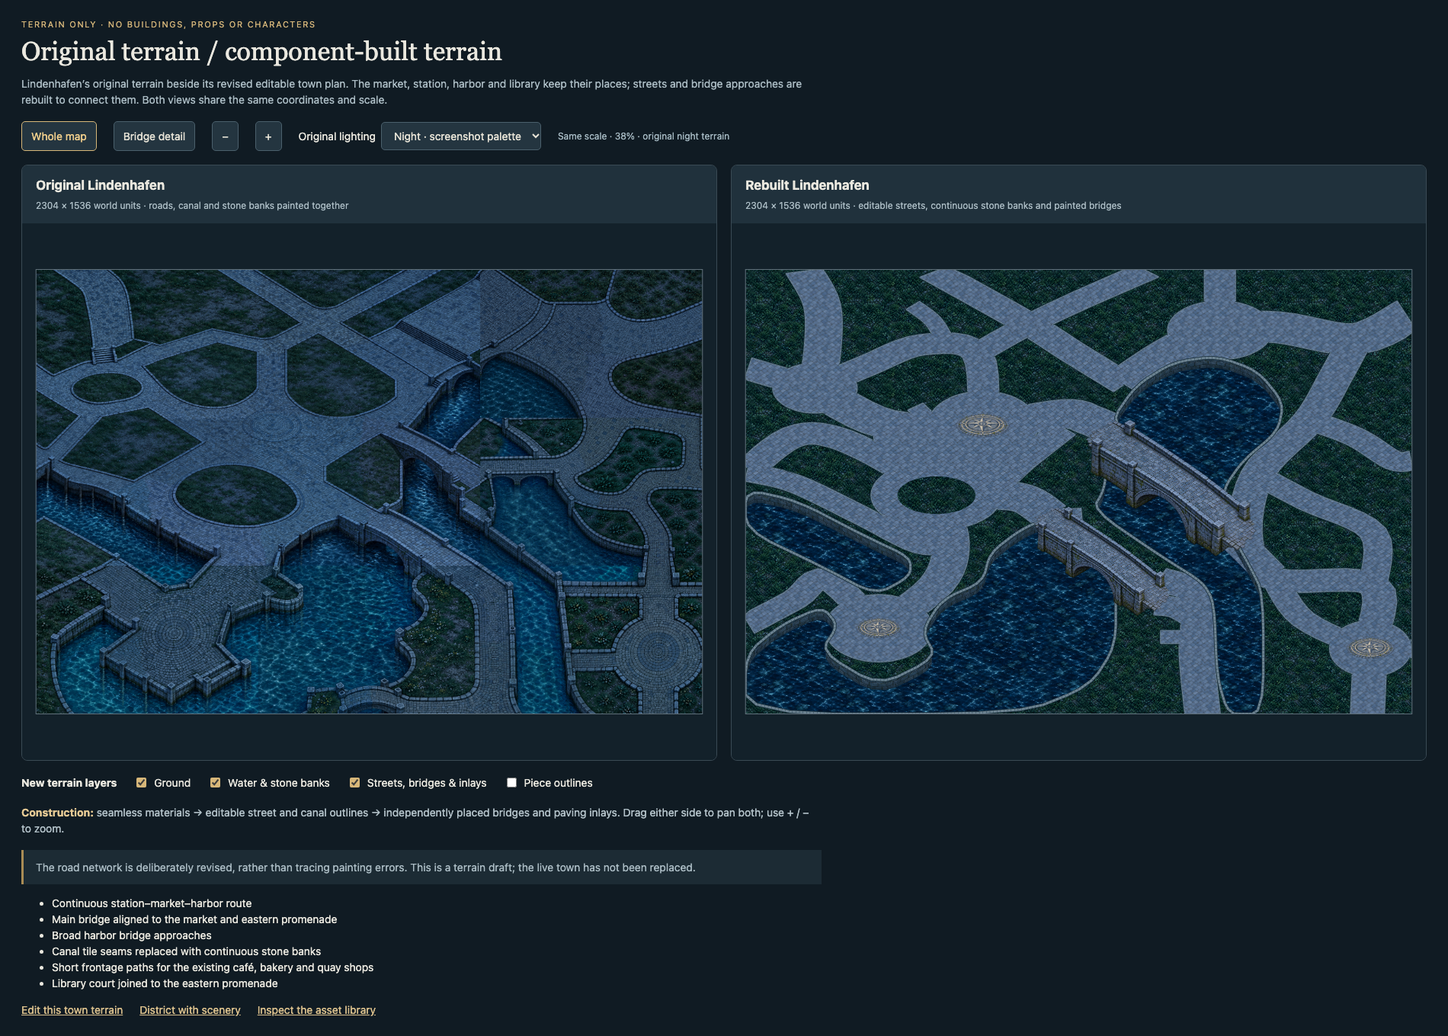
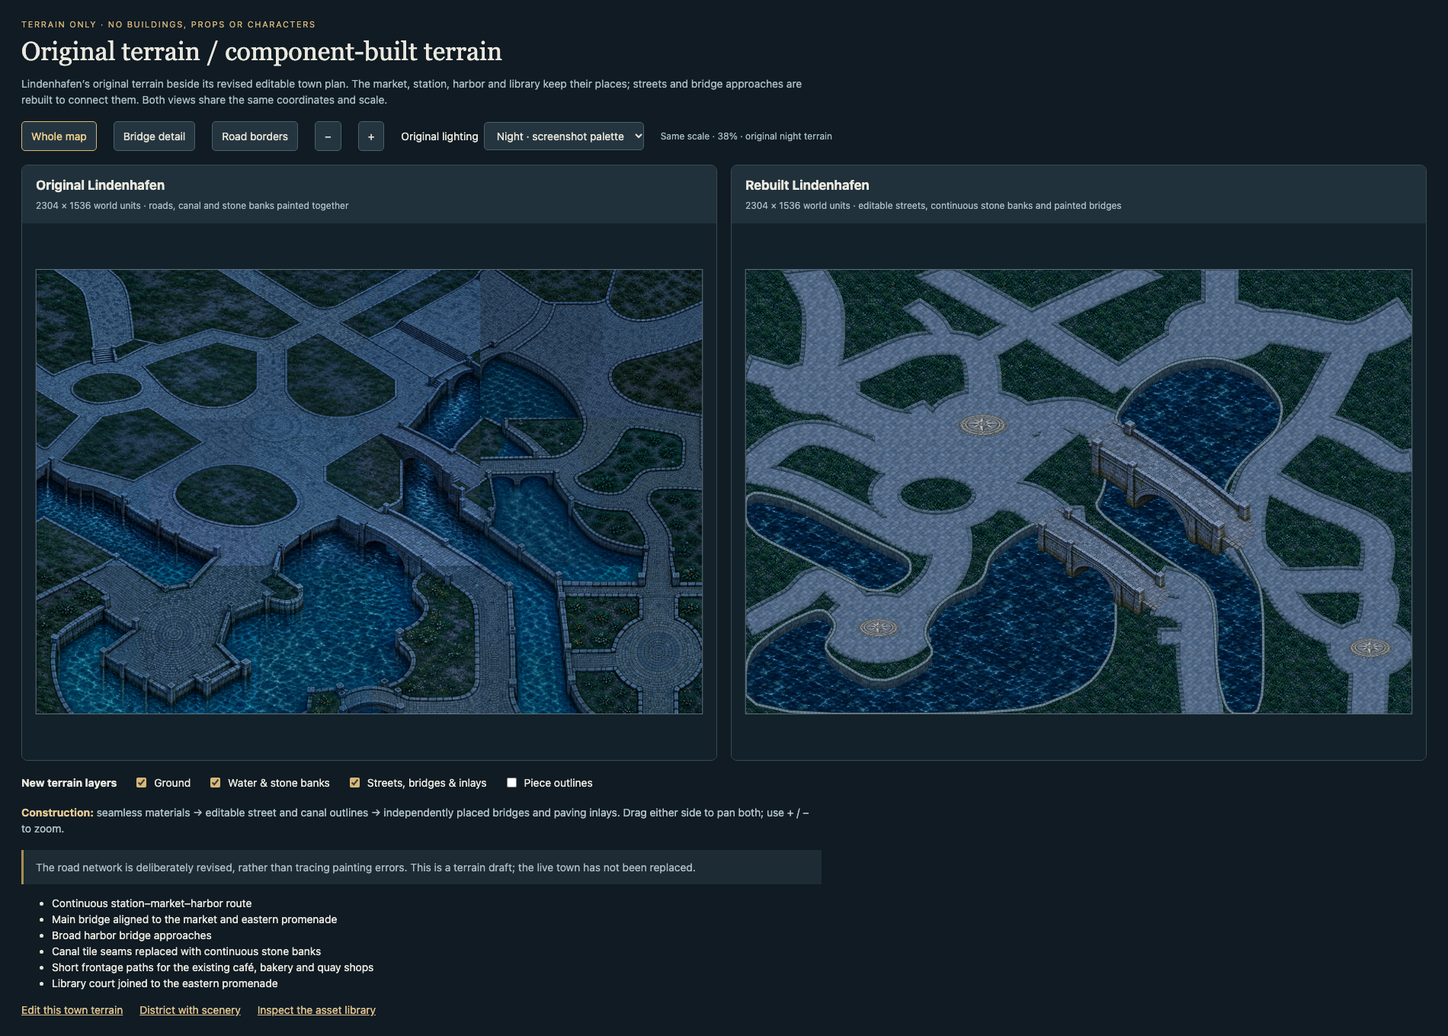
Restore raised textured stone borders around editable roads

diff --git a/web/src/terrain-curbs.ts b/web/src/terrain-curbs.ts
@@ -1,0 +1,155 @@
+import polygonClipping from 'polygon-clipping';
+import type {MultiPolygon,Polygon} from 'polygon-clipping';
+import type {ModularTerrain,TerrainSurface} from './modular-terrain';
+import type {ScenePolygon} from './scene-schema';
+import {terrainMaterial} from './terrain-materials';
+import type {TerrainView} from './terrain-residency';
+
+type Point = readonly [number, number];
+export interface CurbStone {
+  top: ScenePolygon;
+  center: Point;
+  tangent: Point;
+  length: number;
+  variant: number;
+}
+// Measure stones on the ground plane, then project them into the game's camera.
+// Vertical screen distances are foreshortened; stones must not grow on N/S paths.
+const FORESHORTENING = .62;
+const WIDTH = 12;
+const HEIGHT = 3.2;
+const path = (ctx: CanvasRenderingContext2D, points: ScenePolygon) => {
+  ctx.beginPath();
+  points.forEach(([x,y],i) => i ? ctx.lineTo(x,y) : ctx.moveTo(x,y));
+  ctx.closePath();
+};
+const distance = (a: Point,b: Point) => Math.hypot(b[0]-a[0],b[1]-a[1]);
+const chamfer = (polygon:ScenePolygon):ScenePolygon => polygon.flatMap((p,i) => {
+  const neighbors=[polygon[(i+polygon.length-1)%polygon.length],polygon[(i+1)%polygon.length]];
+  return neighbors.map(q => {
+    const t=Math.min(.18,.7/(distance(p,q)||1));
+    return [p[0]+(q[0]-p[0])*t,p[1]+(q[1]-p[1])*t] as Point;
+  });
+});
+
+/** Polygon union preserves garden holes and removes curbs across intersections. */
+export function roadCurbRings(polygons: ScenePolygon[]): ScenePolygon[] {
+  if (!polygons.length) return [];
+  return polygonClipping.union(
+    [polygons[0].map(([x,y]): [number,number] => [x,y])],
+    ...polygons.slice(1).map(p => [p.map(([x,y]): [number,number] => [x,y])]),
+  ).flatMap(p => p.map(ring => ring.slice(0,-1)));
+}
+
+/** Respect painted-over gardens/water as well as overlapping street polygons. */
+export function visibleRoadCurbRings(surfaces:TerrainSurface[]):ScenePolygon[]{
+  let roads:MultiPolygon=[];
+  for(const surface of surfaces){
+    const polygon:Polygon=[surface.polygon.map(([x,y])=>[x,y])];
+    if(terrainMaterial(surface.material)?.edge?.kind==='curb')roads=polygonClipping.union(roads,polygon);
+    else if(roads.length)roads=polygonClipping.difference(roads,polygon);
+  }
+  return roads.flatMap(p=>p.map(ring=>ring.slice(0,-1)));
+}
+
+/** Stable world-space stones: chunking/zoom never changes the joints or variants. */
+export function curbStones(ring: ScenePolygon): CurbStone[] {
+  const points = ring.map(([x,y]): Point => [x,y/FORESHORTENING]);
+  if (points.length<3) return [];
+  const lengths = points.map((a,i) => distance(a,points[(i+1)%points.length]));
+  const stations = [0];
+  for (const length of lengths) stations.push(stations.at(-1)!+length);
+  const total = stations.at(-1)!;
+  if (total<16) return [];
+  const normals = points.map((a,i): Point => {
+    const b=points[(i+1)%points.length],length=lengths[i]||1;
+    // Union rings have land to their left, including clockwise garden holes.
+    return [(b[1]-a[1])/length, -(b[0]-a[0])/length];
+  });
+  const miters = points.map((_,i): Point => {
+    const a=normals[(i+points.length-1)%points.length],b=normals[i];
+    const divisor=Math.max(.65,1+a[0]*b[0]+a[1]*b[1]);
+    return [(a[0]+b[0])/divisor,(a[1]+b[1])/divisor];
+  });
+  const sample = (at:number,offset:number): Point => {
+    let i=0;
+    while(i<lengths.length-1 && stations[i+1]<at) i++;
+    const t=Math.min(1,(at-stations[i])/(lengths[i]||1)),j=(i+1)%points.length;
+    return [points[i][0]*(1-t)+points[j][0]*t+(miters[i][0]*(1-t)+miters[j][0]*t)*offset,
+      (points[i][1]*(1-t)+points[j][1]*t+(miters[i][1]*(1-t)+miters[j][1]*t)*offset)*FORESHORTENING-HEIGHT];
+  };
+  // End a stone at a sharp corner instead of wrapping one block around a junction.
+  const breaks=[0,...stations.slice(1,-1).filter((_,i) => {
+    const a=normals[i],b=normals[(i+1)%normals.length];
+    return a[0]*b[0]+a[1]*b[1]<.8;
+  }),total];
+  const stones:CurbStone[]=[];
+  for(let run=0;run<breaks.length-1;run++){
+    const length=breaks[run+1]-breaks[run],count=Math.max(1,Math.round(length/23));
+    for(let n=0;n<count;n++){
+      const start=breaks[run]+length*n/count+.55,end=breaks[run]+length*(n+1)/count-.55;
+      if(end<=start)continue;
+      const mid=(start+end)/2,center=sample(mid,WIDTH/2);
+      const variant=Math.abs(Math.round(center[0]*13+center[1]*31))%8;
+      const width=WIDTH+(variant%3-1)*.55;
+      const cuts=[start,...stations.filter(s=>s>start&&s<end),end];
+      const a=sample(start,0),b=sample(end,0),dx=b[0]-a[0],dy=(b[1]-a[1])/FORESHORTENING,d=Math.hypot(dx,dy)||1;
+      stones.push({top:chamfer([...cuts.map(s=>sample(s,width)),...cuts.reverse().map(s=>sample(s,-.6))]),
+        center,tangent:[dx/d,dy/d],length:end-start,variant});
+    }
+  }
+  return stones;
+}
+
+// Reuse geometry across visible chunks and preview cameras, without retaining maps forever.
+const cache:{surfaces:TerrainSurface[];stones:CurbStone[]}[]=[];
+function geometry(terrain:ModularTerrain):CurbStone[]{
+  const surfaces=terrain.surfaces;
+  const cached=cache.find(c=>c.surfaces.length===surfaces.length&&c.surfaces.every((s,i)=>s.polygon===surfaces[i].polygon&&s.material===surfaces[i].material));
+  if(cached)return cached.stones;
+  const stones=visibleRoadCurbRings(surfaces).flatMap(curbStones);
+  cache.unshift({surfaces:[...surfaces],stones});if(cache.length>4)cache.pop();return stones;
+}
+
+// Interior faces from the existing high-resolution masonry painting, excluding mortar.
+// These are source rectangles in canal-masonry.webp, not newly flattened raster borders.
+const faces = [[280,264,96,57],[442,267,96,57],[600,265,92,58],[742,265,90,58],
+  [900,266,95,57],[510,350,100,56],[660,350,95,56],[810,350,94,56]];
+
+export function paintRoadCurbs(ctx:CanvasRenderingContext2D,terrain:ModularTerrain,view:TerrainView,
+  source:(id:string)=>CanvasImageSource|undefined):void{
+  const image=source('canal-masonry');
+  ctx.save();ctx.lineJoin='round';
+  for(const stone of geometry(terrain)){
+    const {top,center,tangent,length,variant}=stone;
+    if(center[0]<view.x-50||center[0]>view.x+view.width+50||center[1]<view.y-50||center[1]>view.y+view.height+50)continue;
+    // Ground contact shadow and small raised front faces, lit from upper-left.
+    path(ctx,top.map(([x,y]):Point=>[x+1.3,y+HEIGHT+1.6]));
+    ctx.fillStyle='#07171e88';ctx.fill();ctx.strokeStyle='#07171e55';ctx.lineWidth=2;ctx.stroke();
+    for(let i=0;i<top.length;i++){
+      const a=top[i],b=top[(i+1)%top.length];
+      if(b[0]>=a[0])continue;
+      path(ctx,[a,b,[b[0],b[1]+HEIGHT],[a[0],a[1]+HEIGHT]]);
+      ctx.fillStyle=variant%2?'#2c4253':'#344d60';ctx.fill();
+    }
+    path(ctx,top);ctx.fillStyle='#617b91';ctx.fill();
+    if(image){
+      ctx.save();ctx.clip();
+      const [tx,ty]=tangent;
+      ctx.transform(tx,ty*FORESHORTENING,-ty,tx*FORESHORTENING,center[0],center[1]);
+      const [sx,sy,sw,sh]=faces[variant];
+      ctx.drawImage(image,sx,sy,sw,sh,-length/2-2,-WIDTH/2-3,length+4,WIDTH+6);
+      ctx.fillStyle=`rgba(155,184,210,${.20+(variant%3)*.025})`;ctx.fillRect(-length/2-2,-WIDTH/2-3,length+4,WIDTH+6);
+      ctx.restore();
+    }
+    // Each stone has its own bevel, uneven mineral face and dark mortar joint.
+    path(ctx,top);ctx.strokeStyle='#213747';ctx.lineWidth=.7;ctx.stroke();
+    const inset=top.map(([x,y]):Point=>[center[0]+(x-center[0])*.89,center[1]+(y-center[1])*.80]);
+    for(let i=0;i<inset.length;i++){
+      const a=inset[i],b=inset[(i+1)%inset.length];
+      ctx.beginPath();ctx.moveTo(...a);ctx.lineTo(...b);
+      ctx.strokeStyle=b[0]>a[0]?'#a1b6c4a8':'#1a304861';ctx.lineWidth=.7;ctx.stroke();
+    }
+  }
+  ctx.restore();
+}

diff --git a/web/qa/terrain-compare.html b/web/qa/terrain-compare.html
@@ -1,7 +1,7 @@
 <!doctype html><html lang="en"><meta charset="utf-8"><meta name="viewport" content="width=device-width,initial-scale=1"><title>Terrain comparison · Lindenhafen</title><style>
 *{box-sizing:border-box}body{margin:0;background:#101b23;color:#eae8df;font:14px/1.5 system-ui,sans-serif}main{padding:24px 28px;max-width:2400px;margin:auto}h1{font:34px/1.2 Georgia,serif;margin:6px 0 12px}h2{font-size:17px;margin:0}p{color:#acbdc5;margin:5px 0 14px;max-width:1050px}.eyebrow{font-size:11px;letter-spacing:.15em;text-transform:uppercase;color:#d8b87b}.controls{display:flex;gap:12px 22px;align-items:center;flex-wrap:wrap;margin:18px 0}button,select,a.button{background:#243540;color:#e8e4d7;border:1px solid #4b606c;border-radius:5px;padding:8px 12px;font:inherit;cursor:pointer;text-decoration:none}button[aria-pressed=true]{border-color:#d7b779;color:#f1cf8c}label{display:flex;gap:7px;align-items:center}input{accent-color:#d7b779}a{color:#dcc18d}.comparison{display:grid;grid-template-columns:1fr 1fr;gap:18px}.panel{min-width:0;border:1px solid #3a4a54;border-radius:8px;overflow:hidden;background:#192832}.panel header{padding:14px 18px;background:#20313c}.panel p{margin:4px 0 0;font-size:12px}.viewport{height:clamp(380px,64vh,960px);position:relative}canvas{width:100%;height:100%;display:block;cursor:grab;touch-action:none}canvas:active{cursor:grabbing}.legend{margin-top:14px;color:#b2c1c8}.legend strong{color:#e5c994}.note{padding:12px 16px;border-left:3px solid #aa8c55;background:#1c2b34;margin-top:18px}#status{font-size:12px;color:#a9bdc6}#pieces{font-size:12px;color:#afc0c8;margin-top:8px}.piece-label{display:inline-block;padding:3px 9px;margin:4px 5px 0 0;border:1px solid #526570;border-radius:4px}nav{display:flex;gap:22px}@media(max-width:800px){main{padding:16px}.comparison{grid-template-columns:1fr}.viewport{height:380px}h1{font-size:28px}}
 </style><main><div class="eyebrow">Terrain only · no buildings, props or characters</div><h1>Original terrain / component-built terrain</h1><p>Lindenhafen’s original terrain beside its revised editable town plan. The market, station, harbor and library keep their places; streets and bridge approaches are rebuilt to connect them. Both views share the same coordinates and scale.</p>
-<div class="controls"><button id="whole" aria-pressed="true">Whole map</button><button id="bridge" aria-pressed="false">Bridge detail</button><button id="out" aria-label="Zoom out">−</button><button id="in" aria-label="Zoom in">+</button><label>Original lighting <select id="period"><option value="night">Night · screenshot palette</option><option value="day">Day</option></select></label><span id="status" role="status">Loading terrain…</span></div>
+<div class="controls"><button id="whole" aria-pressed="true">Whole map</button><button id="bridge" aria-pressed="false">Bridge detail</button><button id="borders" aria-pressed="false">Road borders</button><button id="out" aria-label="Zoom out">−</button><button id="in" aria-label="Zoom in">+</button><label>Original lighting <select id="period"><option value="night">Night · screenshot palette</option><option value="day">Day</option></select></label><span id="status" role="status">Loading terrain…</span></div>
 <div class="comparison" id="comparison"><section class="panel"><header><h2>Original Lindenhafen</h2><p>2304 × 1536 world units · roads, canal and stone banks painted together</p></header><div class="viewport"><canvas id="original" aria-label="Original Lindenhafen terrain, without scenery"></canvas></div></section><section class="panel"><header><h2>Rebuilt Lindenhafen</h2><p>2304 × 1536 world units · editable streets, continuous stone banks and painted bridges</p></header><div class="viewport"><canvas id="components" aria-label="Rebuilt Lindenhafen terrain, without scenery"></canvas></div></section></div>
 <div class="controls"><strong>New terrain layers</strong><label><input type="checkbox" id="ground" checked> Ground</label><label><input type="checkbox" id="water" checked> Water &amp; stone banks</label><label><input type="checkbox" id="roads" checked> Streets, bridges &amp; inlays</label><label><input type="checkbox" id="outlines"> Piece outlines</label></div><div id="pieces" hidden></div>
 <p class="legend"><strong>Construction:</strong> seamless materials → editable street and canal outlines → independently placed bridges and paving inlays. Drag either side to pan both; use + / − to zoom.</p><p class="note">The road network is deliberately revised, rather than tracing painting errors. This is a terrain draft; the live town has not been replaced.</p><ul id="changes"></ul><nav><a href="/qa/terrain-compare.html?edit">Edit this town terrain</a><a href="/qa/terrain-district.html">District with scenery</a><a href="/qa/terrain-kit.html">Inspect the asset library</a></nav></main><script type="module" src="/qa/terrain-compare.ts"></script></html>

diff --git a/web/qa/terrain-compare.ts b/web/qa/terrain-compare.ts
@@ -22,14 +22,15 @@ const original=document.querySelector<HTMLCanvasElement>('#original')!,component
 const status=document.querySelector('#status')!;
 const checked=(id:string)=>document.querySelector<HTMLInputElement>(`#${id}`)!.checked;
 const images=new Map<string,HTMLImageElement>();
-let oldImages=new Map<string,HTMLImageElement>(),generation=0,ready=false,mode:'whole'|'bridge'='whole',zoom=1,offset={x:0,y:0};
+let oldImages=new Map<string,HTMLImageElement>(),generation=0,ready=false,mode:'whole'|'bridge'|'borders'='whole',zoom=1,offset={x:0,y:0};
 const load=async(src:string)=>{const image=new Image();image.src=src;await image.decode();return image;};
 const ids=terrainMaterialDependencies([terrain.base,...terrain.surfaces.map(s=>s.material)]);
+const detailSize=()=>mode==='borders'?{width:650,height:540}:{width:1000,height:820};
+function cameraScale(){const fit=Math.min(original.clientWidth/world.width,original.clientHeight/world.height)*.96;return (mode==='whole'?fit:Math.min(original.clientWidth/detailSize().width,original.clientHeight/detailSize().height))*zoom;}
 function render(){
  if(!ready)return;
- const fit=Math.min(original.clientWidth/world.width,original.clientHeight/world.height)*.96;
- const scale=mode==='whole'?fit*zoom:Math.min(original.clientWidth/1000,original.clientHeight/820)*zoom;
- const centers=mode==='whole'?[{x:world.width/2,y:world.height/2},{x:draft.width/2,y:draft.height/2}]:[{x:1400,y:750},{x:1400,y:750}];
+ const scale=cameraScale();
+ const centers=mode==='whole'?[{x:world.width/2,y:world.height/2},{x:draft.width/2,y:draft.height/2}]:mode==='borders'?[{x:680,y:770},{x:680,y:770}]:[{x:1400,y:750},{x:1400,y:750}];
  for(const [index,canvas] of [original,components].entries()){
   const w=canvas.clientWidth,h=canvas.clientHeight,dpr=Math.min(devicePixelRatio,2);
   if(canvas.width!==Math.round(w*dpr)||canvas.height!==Math.round(h*dpr)){canvas.width=Math.round(w*dpr);canvas.height=Math.round(h*dpr);}
@@ -70,12 +71,12 @@ await Promise.all([...ids.map(async id=>images.set(id,await load(terrainMaterial
 document.querySelector('#changes')!.innerHTML=draft.changes.map(change=>`<li>${change}</li>`).join('');
 document.querySelector('#pieces')!.innerHTML=(terrain.features??[]).map((f,i)=>`<span class="piece-label">${i+1}. ${terrainFeature(f.asset)!.name}</span>`).join('');
 for(const id of ['ground','water','roads','outlines'])document.querySelector(`#${id}`)!.addEventListener('change',render);
-for(const value of ['whole','bridge'] as const)document.querySelector(`#${value}`)!.addEventListener('click',()=>{mode=value;zoom=1;offset={x:0,y:0};for(const id of ['whole','bridge'])document.querySelector(`#${id}`)!.setAttribute('aria-pressed',String(id===mode));render();});
+for(const value of ['whole','bridge','borders'] as const)document.querySelector(`#${value}`)!.addEventListener('click',()=>{mode=value;zoom=1;offset={x:0,y:0};for(const id of ['whole','bridge','borders'])document.querySelector(`#${id}`)!.setAttribute('aria-pressed',String(id===mode));render();});
 for(const [id,multiplier] of [['in',1.4],['out',1/1.4]] as const)document.querySelector(`#${id}`)!.addEventListener('click',()=>{zoom=Math.max(.5,Math.min(5,zoom*multiplier));render();});
 document.querySelector('#period')!.addEventListener('change',()=>void loadOriginal());
 for(const canvas of [original,components]){
  let drag:{x:number;y:number;offset:{x:number;y:number};scale:number}|undefined;
- canvas.onpointerdown=e=>{if(e.button!==0||!ready)return;canvas.setPointerCapture(e.pointerId);const fit=Math.min(original.clientWidth/world.width,original.clientHeight/world.height)*.96;drag={x:e.clientX,y:e.clientY,offset:{...offset},scale:mode==='whole'?fit*zoom:Math.min(original.clientWidth/1000,original.clientHeight/820)*zoom};};
+ canvas.onpointerdown=e=>{if(e.button!==0||!ready)return;canvas.setPointerCapture(e.pointerId);drag={x:e.clientX,y:e.clientY,offset:{...offset},scale:cameraScale()};};
  canvas.onpointermove=e=>{if(!drag)return;offset={x:drag.offset.x-(e.clientX-drag.x)/drag.scale,y:drag.offset.y-(e.clientY-drag.y)/drag.scale};render();};
  canvas.onpointerup=canvas.onpointercancel=canvas.onlostpointercapture=()=>{drag=undefined;};
 }

diff --git a/web/src/terrain-curbs.test.ts b/web/src/terrain-curbs.test.ts
@@ -1,0 +1,50 @@
+import {describe,expect,it} from 'vitest';
+import {roadCurbRings,visibleRoadCurbRings,curbStones} from './terrain-curbs';
+import {rectangleSurface,terrainContains} from './modular-terrain';
+import {terrainMaterialDependencies} from './terrain-masonry';
+const rect=(x:number,y:number,w:number,h:number)=>rectangleSurface('road','town-cobble',x,y,w,h).polygon;
+const area=(p:readonly (readonly [number,number])[])=>p.reduce((n,a,i)=>{
+  const b=p[(i+1)%p.length];return n+a[0]*b[1]-a[1]*b[0];
+},0)/2;
+
+describe('raised road border stones',()=>{
+  it('keeps the center of an overlapping crossroads free of edging',()=>{
+    const rings=roadCurbRings([rect(0,40,200,40),rect(80,0,40,120)]);
+    expect(rings).toHaveLength(1);
+    const stones=rings.flatMap(curbStones);
+    expect(stones.length).toBeGreaterThan(10);
+    for(const stone of stones)for(const [x,y] of stone.top)
+      expect(x>81&&x<119&&y>41&&y<79).toBe(false);
+  });
+  it('borders garden holes on the garden side and outer roads on the grass side',()=>{
+    const rings=roadCurbRings([rect(0,0,200,30),rect(0,170,200,30),rect(0,30,30,140),rect(170,30,30,140)]);
+    expect(rings).toHaveLength(2);
+    const inner=rings.find(r=>area(r)<0)!,outer=rings.find(r=>area(r)>0)!;
+    for(const stone of curbStones(inner))expect(terrainContains(inner,...stone.center)).toBe(true);
+    for(const stone of curbStones(outer))expect(terrainContains(outer,...stone.center)).toBe(false);
+  });
+  it('has deterministic world-space detail on both sides of a chunk boundary',()=>{
+    const ring=roadCurbRings([rect(220,230,180,90)])[0];
+    const a=curbStones(ring),b=curbStones(structuredClone(ring));
+    expect(a).toEqual(b);
+    expect(a.some(s=>s.top.some(p=>p[0]<256)&&s.top.some(p=>p[0]>256))).toBe(true);
+    for(const stone of a){
+      expect(stone.length).toBeGreaterThan(10);
+      expect(stone.length).toBeLessThan(30);
+      expect(area(stone.top)).toBeGreaterThan(0);
+      expect(stone.top.flat().every(Number.isFinite)).toBe(true);
+    }
+  });
+  it('loads the stone art even on a road-only map without canals',()=>{
+    expect(terrainMaterialDependencies(['town-cobble'])).toEqual(['town-cobble','canal-masonry']);
+  });
+  it('adds an inner border when an editor paints a garden over a paved square',()=>{
+    const road=rectangleSurface('square','town-cobble',0,0,200,200);
+    const garden=rectangleSurface('garden','canal-grass',60,60,80,80);
+    const rings=visibleRoadCurbRings([road,garden]);
+    expect(rings).toHaveLength(2);
+    const inner=rings.find(r=>area(r)<0)!;
+    expect(curbStones(inner).length).toBeGreaterThan(10);
+    expect(visibleRoadCurbRings([garden,road])).toHaveLength(1);
+  });
+});

diff --git a/web/src/modular-terrain-renderer.ts b/web/src/modular-terrain-renderer.ts
@@ -6,6 +6,7 @@ import {terrainFeature,terrainFeatureKey,featureBounds} from './terrain-features
 import type {TerrainView} from './terrain-residency';
 import type {TerrainResidency} from './terrain-residency';
 import {paintTerrainEdge,terrainMaterialDependencies} from './terrain-masonry';
+import {paintRoadCurbs} from './terrain-curbs';
 const CHUNK=256;
 let sequence=0;
 interface Chunk {key:string;image:Phaser.GameObjects.Image;}
@@ -24,15 +25,15 @@ export function paintModularTerrain(context:CanvasRenderingContext2D,terrain:Mod
     context.restore();
   };
   fill(terrain.base);
-  // Lay curbs first; adjoining paving covers internal seams at street junctions.
-  for(const surface of terrain.surfaces)if(terrainMaterial(surface.material)?.edge?.kind==='curb')
-    paintTerrainEdge(context,surface.polygon,'curb',source);
   for(const surface of terrain.surfaces){
     const p=surface.polygon;
     if(Math.max(...p.map(v=>v[0]))<view.x||Math.min(...p.map(v=>v[0]))>view.x+view.width
       ||Math.max(...p.map(v=>v[1]))<view.y||Math.min(...p.map(v=>v[1]))>view.y+view.height)continue;
     fill(surface.material,p);
   }
+  // Borders follow the final road silhouette, including gardens painted over paving.
+  // Draw after the ground so grass cannot bury the raised stones around its islands.
+  paintRoadCurbs(context,terrain,view,source);
   for(const surface of terrain.surfaces){
     const edge=terrainMaterial(surface.material)?.edge;
     if(edge?.kind==='quay')paintTerrainEdge(context,surface.polygon,'quay',source,edge.height);

diff --git a/web/src/terrain-masonry.ts b/web/src/terrain-masonry.ts
@@ -2,7 +2,7 @@ import type {ScenePolygon} from './scene-schema';
 import {terrainMaterial} from './terrain-materials';
 
 export function terrainMaterialDependencies(ids:string[]):string[]{
- return [...new Set(ids.flatMap(id=>{const edge=terrainMaterial(id)?.edge;return edge?.material?[id,edge.material]:[id];}))];
+ return [...new Set(ids.flatMap(id=>{const edge=terrainMaterial(id)?.edge;return edge?.kind==='curb'?[id,'canal-masonry']:edge?.material?[id,edge.material]:[id];}))];
 }
 const path=(ctx:CanvasRenderingContext2D,p:ScenePolygon)=>{ctx.beginPath();p.forEach(([x,y],i)=>i?ctx.lineTo(x,y):ctx.moveTo(x,y));ctx.closePath();};
 /** Edge treatment follows the editable polygon, with stone courses projected onto vertical faces. */

diff --git a/docs/modular-terrain.md b/docs/modular-terrain.md
@@ -84,3 +84,7 @@ The paving-only navigation checks exclude grass shortcuts and verify seven desti
 New built-in ImageGen sources: `art/source/terrain-materials/town-cobble.png`, `art/source/terrain-materials/canal-masonry.png`, and `art/source/terrain-features/compass-inlay.png`. Exact prompts: `docs/prompts/terrain-materials/town-cobble.txt`, `docs/prompts/terrain-materials/canal-masonry.txt`, and `docs/prompts/terrain-features/compass-inlay.txt` (including its camera correction). This reconstruction pass passed 36 focused tests, both browser audits, all 25 material seam checks, all 15 feature validations, type checking, lint and production build. The final junction refinement was rechecked with all 11 reconstruction tests and both browser audits.
 
 The blue-paving follow-up replaces the muted street texture with a fresh bridge-referenced stone material: richer blue midtones/highlights, crisp mortar and flatter three-quarter paving courses. The native source remains `art/source/terrain-materials/town-cobble.png`; the active lossless asset is now `web/public/assets/terrain-materials/town-cobble-bridge-blue.webp`, with a distinct URL to invalidate old browser copies. Built-in ImageGen prompt: `docs/prompts/terrain-materials/town-cobble-bridge-blue.txt`. All 25 material seam checks and the browser comparison audit pass. `docs/audits/modular-terrain/bridge-paving-match.png` captures the actual road/bridge joins at matching scale.
+
+The road-border pass restores raised individual edging stones in `web/src/terrain-curbs.ts`. Borders follow the union of visible streets, subtract later garden/water surfaces, preserve garden holes and remain clear across intersections. Each block uses a detailed face sampled from the existing high-resolution canal masonry painting, with camera foreshortening, chamfered edges, directional bevels, raised side faces and contact shadows. Ground layers render before the stones so garden fills cannot bury their borders. Geometry and stone variants are stable in world coordinates and cached across chunks; road-only maps also load the stone material. No new raster generation or texture changes were needed.
+
+The comparison has a **Road borders** close-up at a shared scale; evidence is `docs/audits/modular-terrain/road-borders-detail.png` and `road-borders-comparison.png`. All 16 focused border/navigation tests, type checking, lint and the comparison browser audit pass. The browser audit additionally compares the game’s padded 256-unit chunk composition with a single canvas at 2× resolution: 47 of 10,215 seam-strip pixels differ by more than three channel levels, maximum ten (minor Canvas rasterization variation; acceptance limits are 0.5% and sixteen). Material repeat assets are unchanged.
